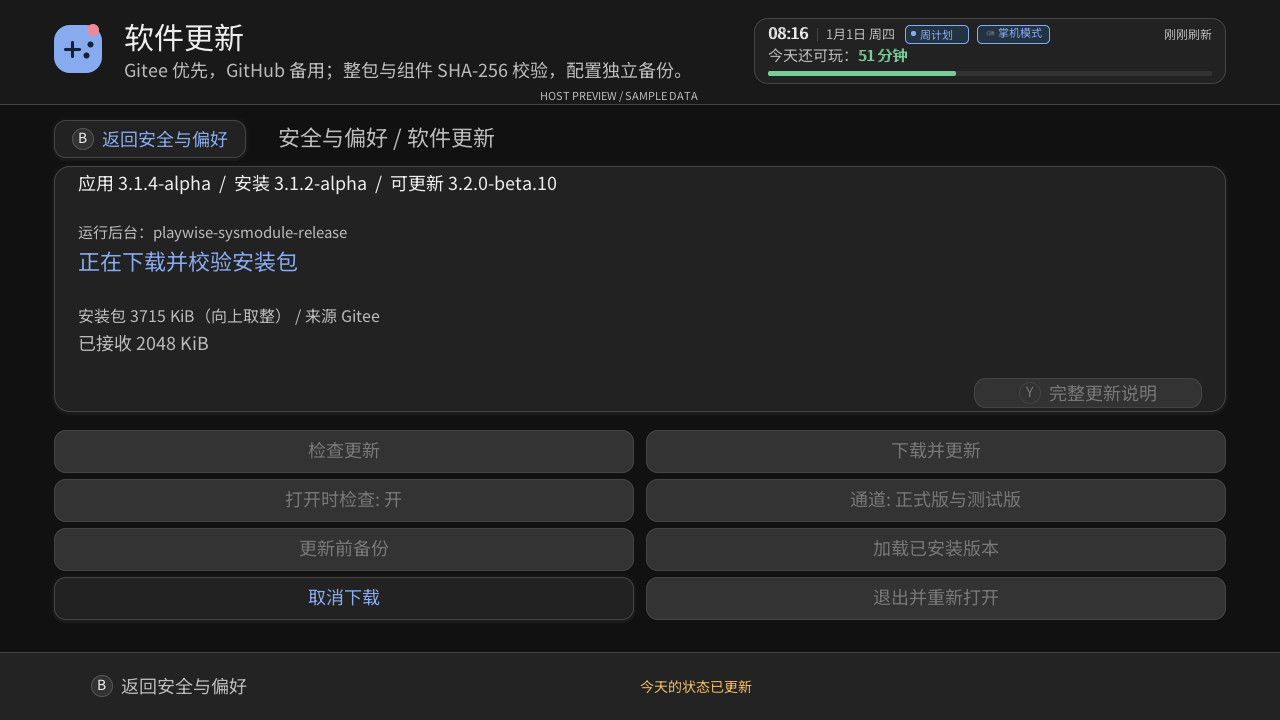
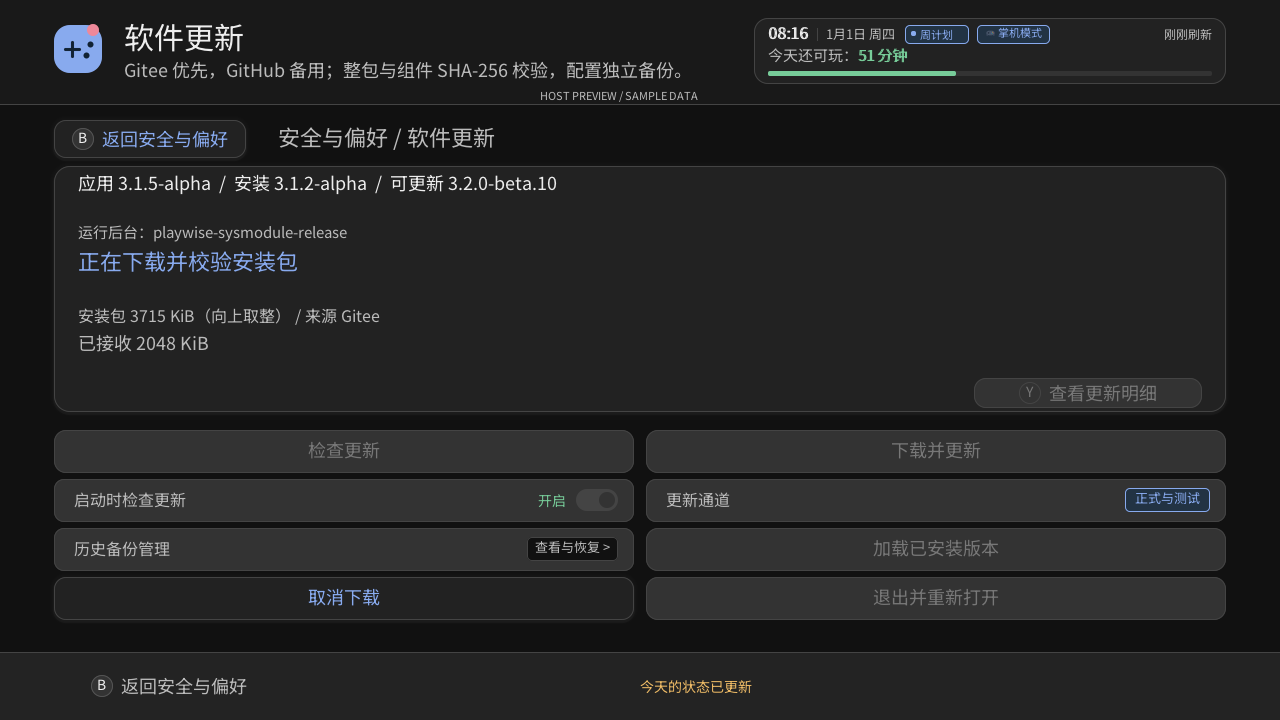
fix(ui): 修复预览图构建编译报错并同步更新文档截图
- 在 ui_navigation_state.c 与 ui_render_pages.c 补齐 common/update/update.h 头文件引用，解决 PTC_UPDATE_AVAILABLE 未声明错误
- 将 draw_software_info_overlay 中栈缓冲区扩容至 256 字节，消除 -Werror=format-truncation 编译报错
- 增量重新渲染并同步包含新版本提示的中文使用文档截图

diff --git a/companion/nro/ui_render_overlay_support.c b/companion/nro/ui_render_overlay_support.c
@@ -170,7 +170,7 @@ static void draw_shortcut_manager_overlay(uint32_t *pixels, uint32_t stride, con
 static void draw_software_info_overlay(uint32_t *pixels, uint32_t stride, const PtcUiModel *model)
 {
     UiRect details;
-    char value[128];
+    char value[256];
     const char *status = ptc_ui_text(PTC_UI_T_STATUS_UNKNOWN);
     uint32_t status_color = UI_MUTED;
     bool pending = model->hot_reload_status == PTC_UI_HOT_RELOAD_PENDING && !model->parent_support_only;

diff --git a/companion/nro/ui_render_pages.c b/companion/nro/ui_render_pages.c
@@ -1,4 +1,5 @@
 #include "ui_render_internal.h"
+#include "../../common/update/update.h"
 
 static const UiAction TODAY_ACTIONS[] = {
     {PTC_UI_TEXT_REFERENCE(PTC_UI_T_SET_TODAY_LIMIT), PTC_UI_TEXT_REFERENCE(PTC_UI_T_CONTROLLED_BY_RULES), UI_ACCENT, UI_ACTION_ICON_CLOCK, UI_ACTION_VISUAL_NONE},

diff --git a/companion/nro/ui_navigation_state.c b/companion/nro/ui_navigation_state.c
@@ -10,6 +10,7 @@
 #include "../../common/protocol/error_code.h"
 #include "../../common/rules/holiday_calendar.h"
 #include "../../common/time/ptc_time.h"
+#include "../../common/update/update.h"
 
 void ptc_ui_open_support_guide(PtcUiModel *model)
 {
